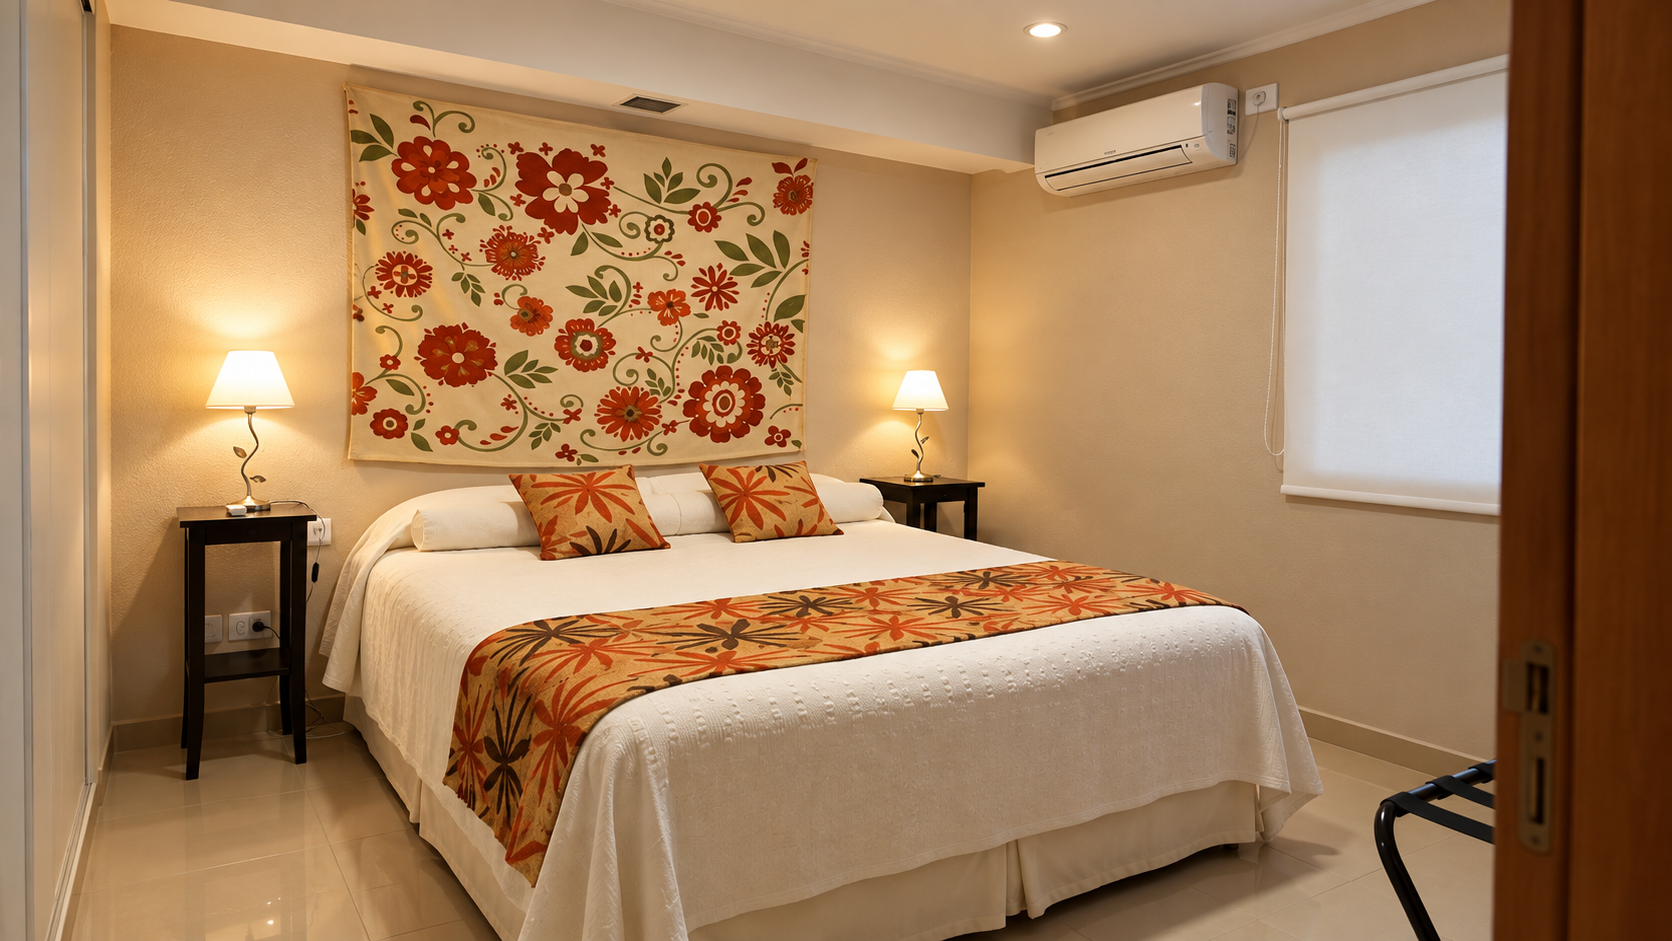
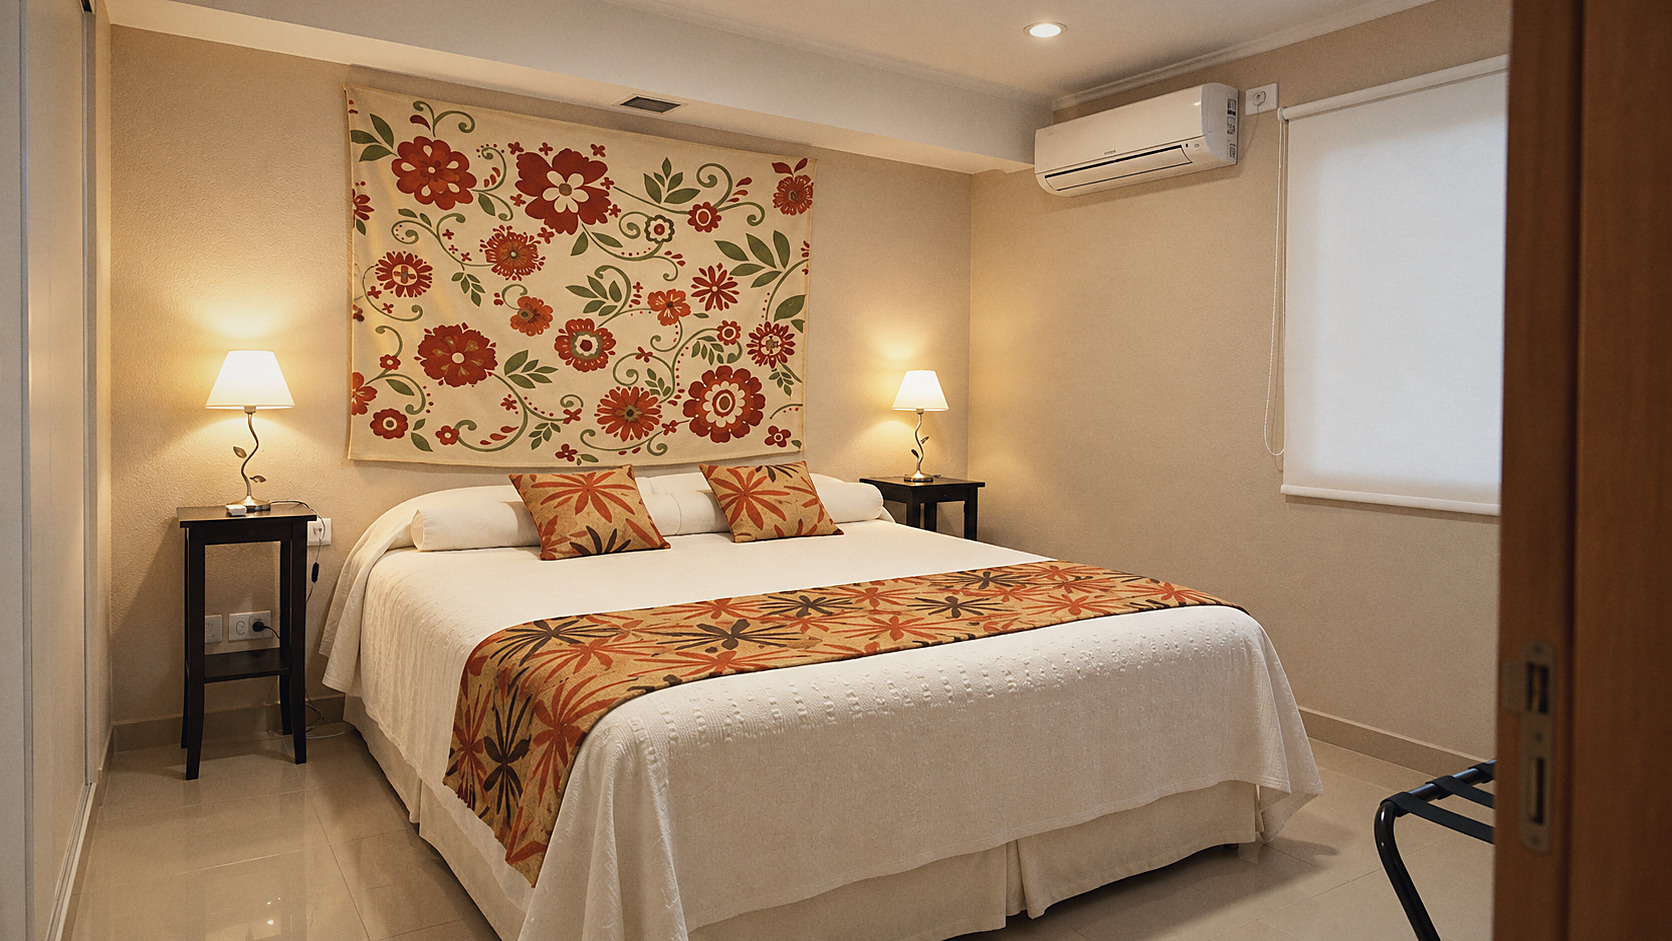
Use the hotel's own room photo for "Tu estancia"
Replaces the third-party stock bedroom with a real room photo, graded
with tools/grade-image.py like hero and soul (2.1 MB PNG -> 461 KB
JPG). Three of six section images now come from the repo instead of
hotlinked domains.

Claude-Session: https://claude.ai/code/session_019A7BNkea1KhgyQs9dBmW83

diff --git a/index.html b/index.html
@@ -899,7 +899,7 @@
     <!-- 03 YOUR STAY -->
     <section class="scene stay-scene with-parallax" id="estancia">
       <div class="background-wrapper">
-        <img src="https://cdn.mos.cms.futurecdn.net/4f7xX9mxzWAeVehjkftkJf.jpg" alt="Habitación luminosa de estilo boutique, imagen provisional">
+        <img src="assets/img/stay.jpg" alt="Habitación de Meoran's Apart Hotel con cama king y textiles artesanales">
       </div>
 
       <article class="editorial-card stay-card">
